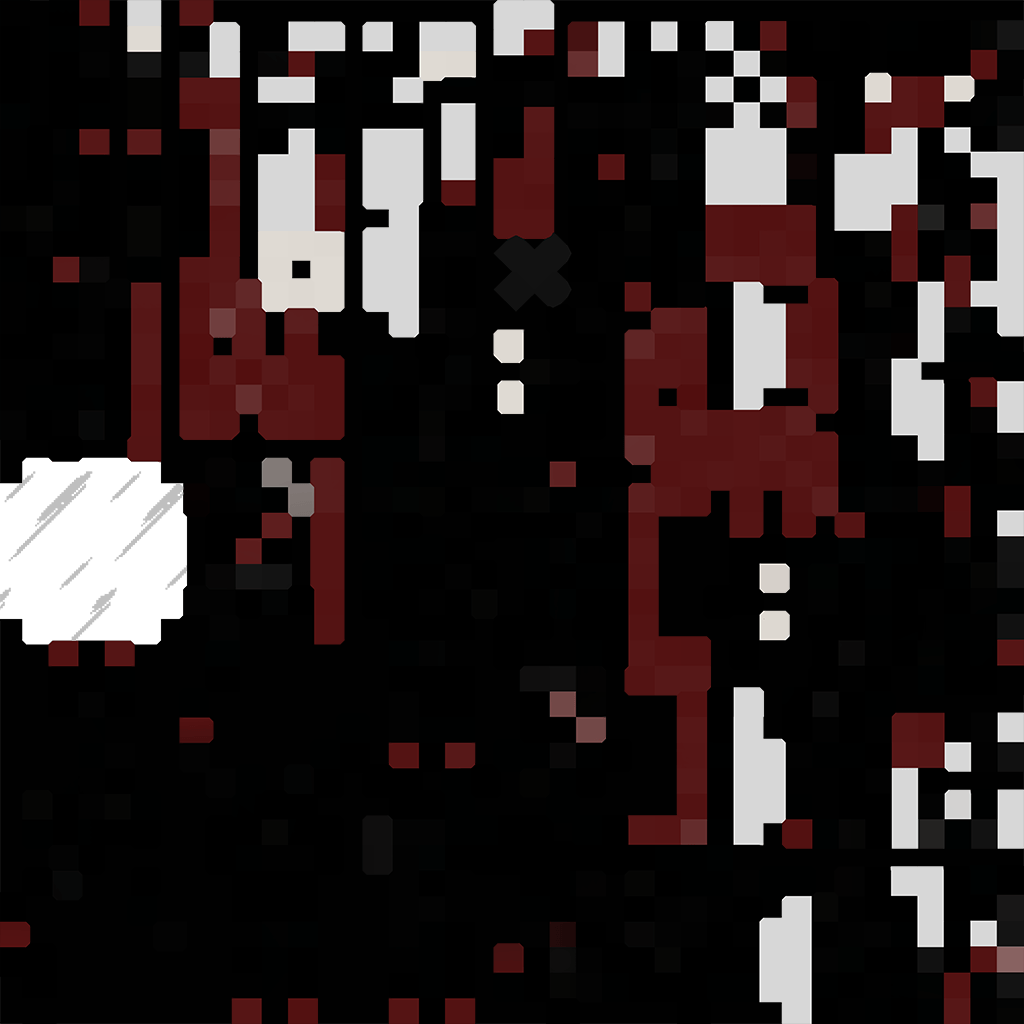
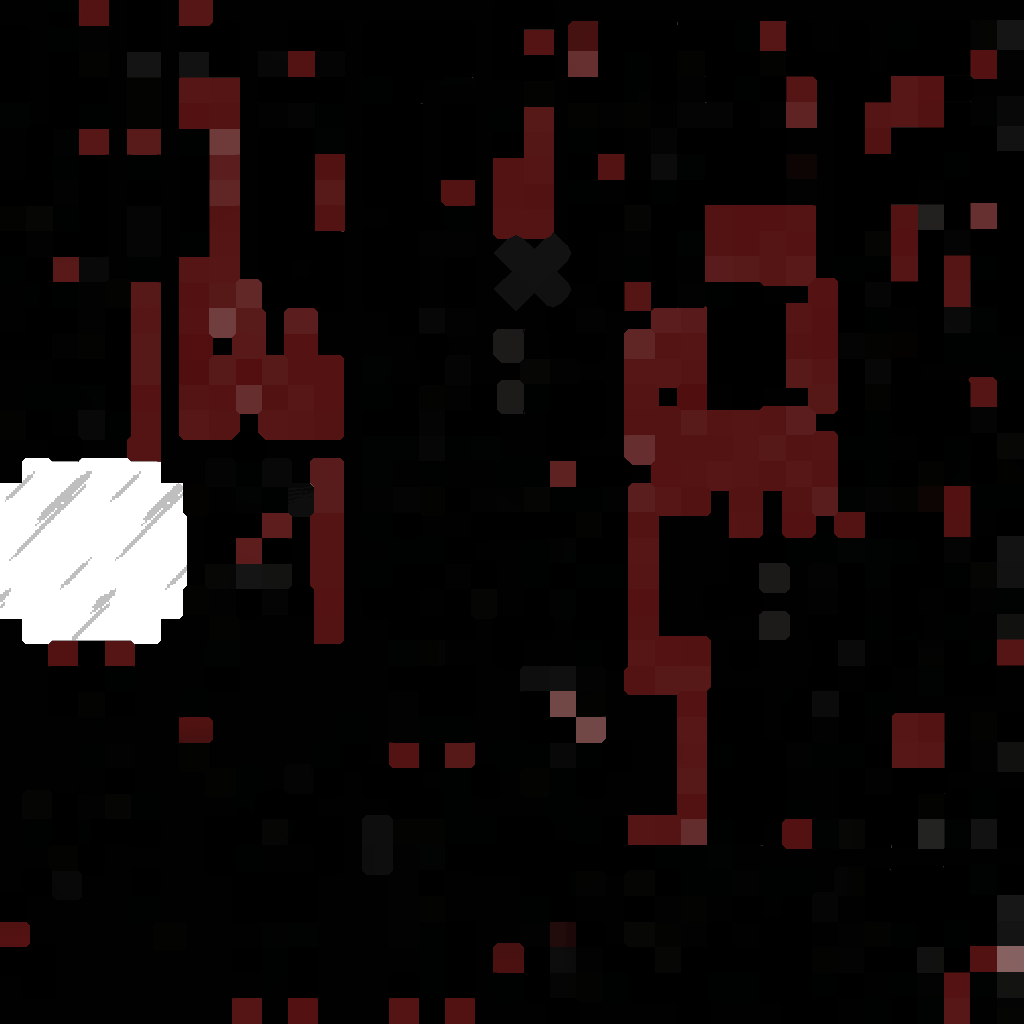
Texture and brightmap fixes
Fixed a flashlight textures. Updated Model with the right texture and uv map. Model shading and brightmaps are updated to make the models look better.

diff --git a/README.md b/README.md
@@ -1,6 +1,6 @@
 # Flashlight for Doom VR
 
-[Flashlight for Doom VR](https://i.imgflip.com/24egfa.gif)
+![Flashlight for Doom VR](https://i.imgflip.com/24egfa.gif)
 
 A Spotlight based flashlight mod to use with Doom in VR. Unlike the other flashlight mods out there, this flashlight actually follows your tracked controller rather than head movements. It's quite tricky in GZDoom engine since the engine doesn't seem to provide the weapon offsets/angle/pitch so I had to figure out some hacky way to track the controller offset/angle/pitch. I'm not really happy about the sphaghetti codes but hey if it works, it works.
 
@@ -57,8 +57,8 @@ To install:
 * [DarkDoomZ:](https://github.com/caligari87/darkdoomz/releases/latest)
   - DarkDoomZ can be used to make any Doom level darker by reducing the light levels across all sectors in the map. Use options from DarkDoomZ Settings to adjust the effect as you desire. DarkDoomZ includes it's own head/shoulder mounted flashlight but its not necessary to use it (or you can use both the headmounted and weapon mounted flashlight if you find that convenient)
   
-* [Aliens Eradication:](https://github.com/iAmErmac/Aliens-Eradication-VR-addon)
-  This is a perfect mod to use the flashlight with since it loads any doom map with a very dark environment. Aliens Eradication has it's own head/shoulder mounted flashlight and you can use both if you want to (though it's recommended to use only one)
+* [Aliens: Eradication:](https://github.com/iAmErmac/Aliens-Eradication-VR-addon)
+  - This is a perfect mod to use the flashlight with since it loads any doom map with a very dark environment. Aliens Eradication has it's own head/shoulder mounted flashlight and you can use both if you want to (though it's recommended to use only one)
 
 ## Credits
 
